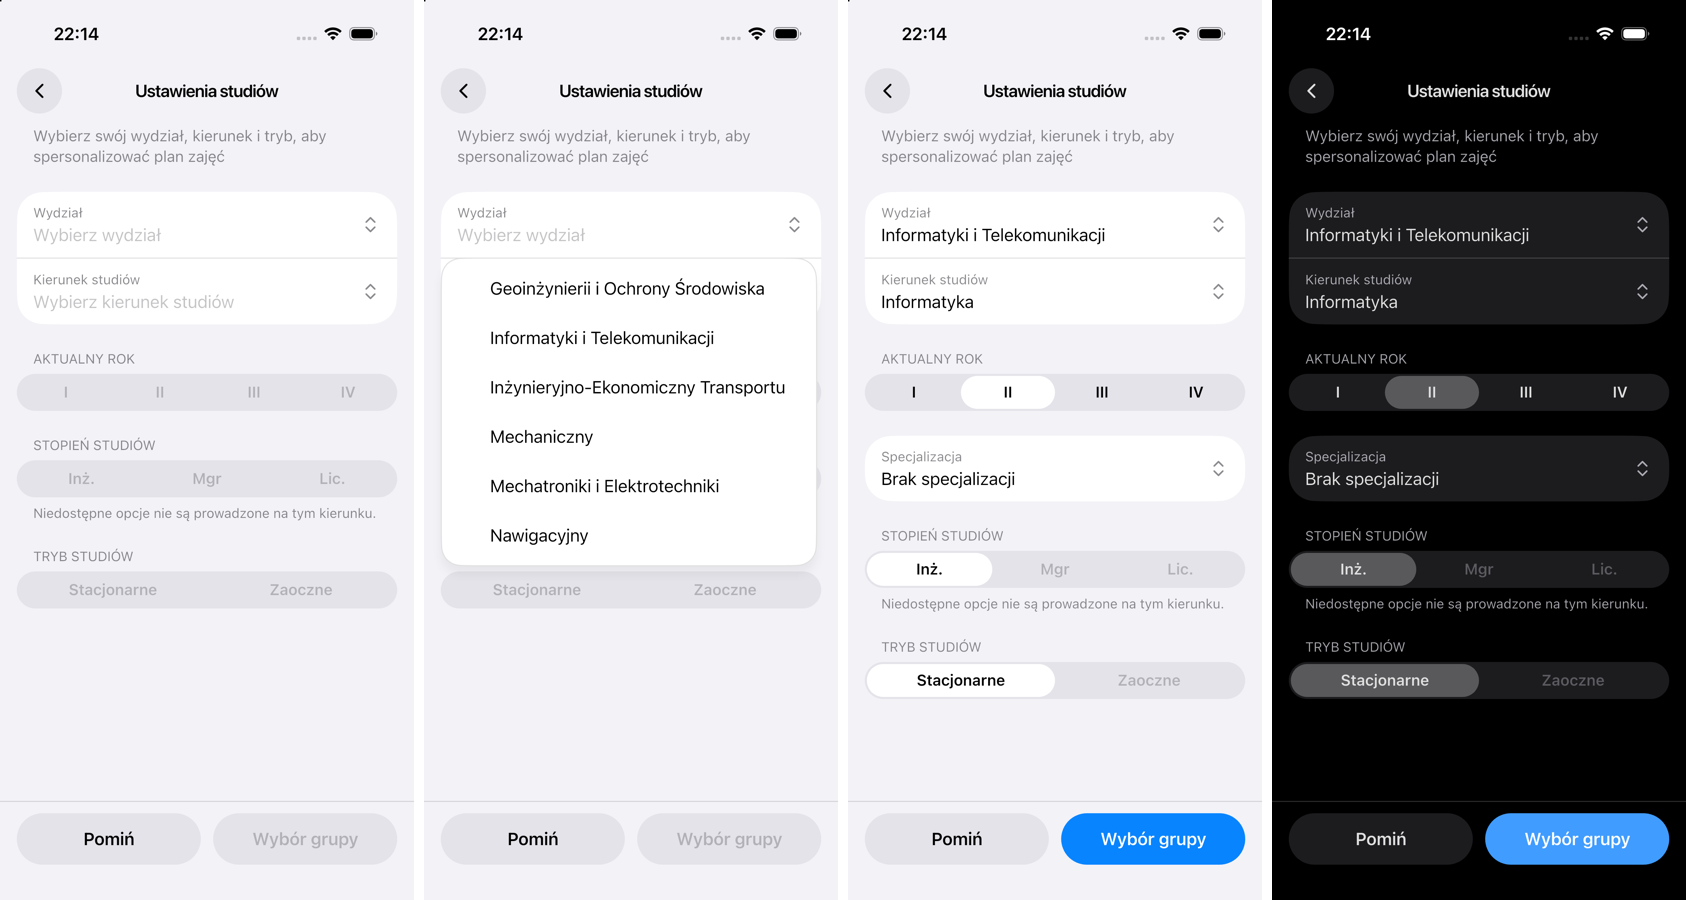
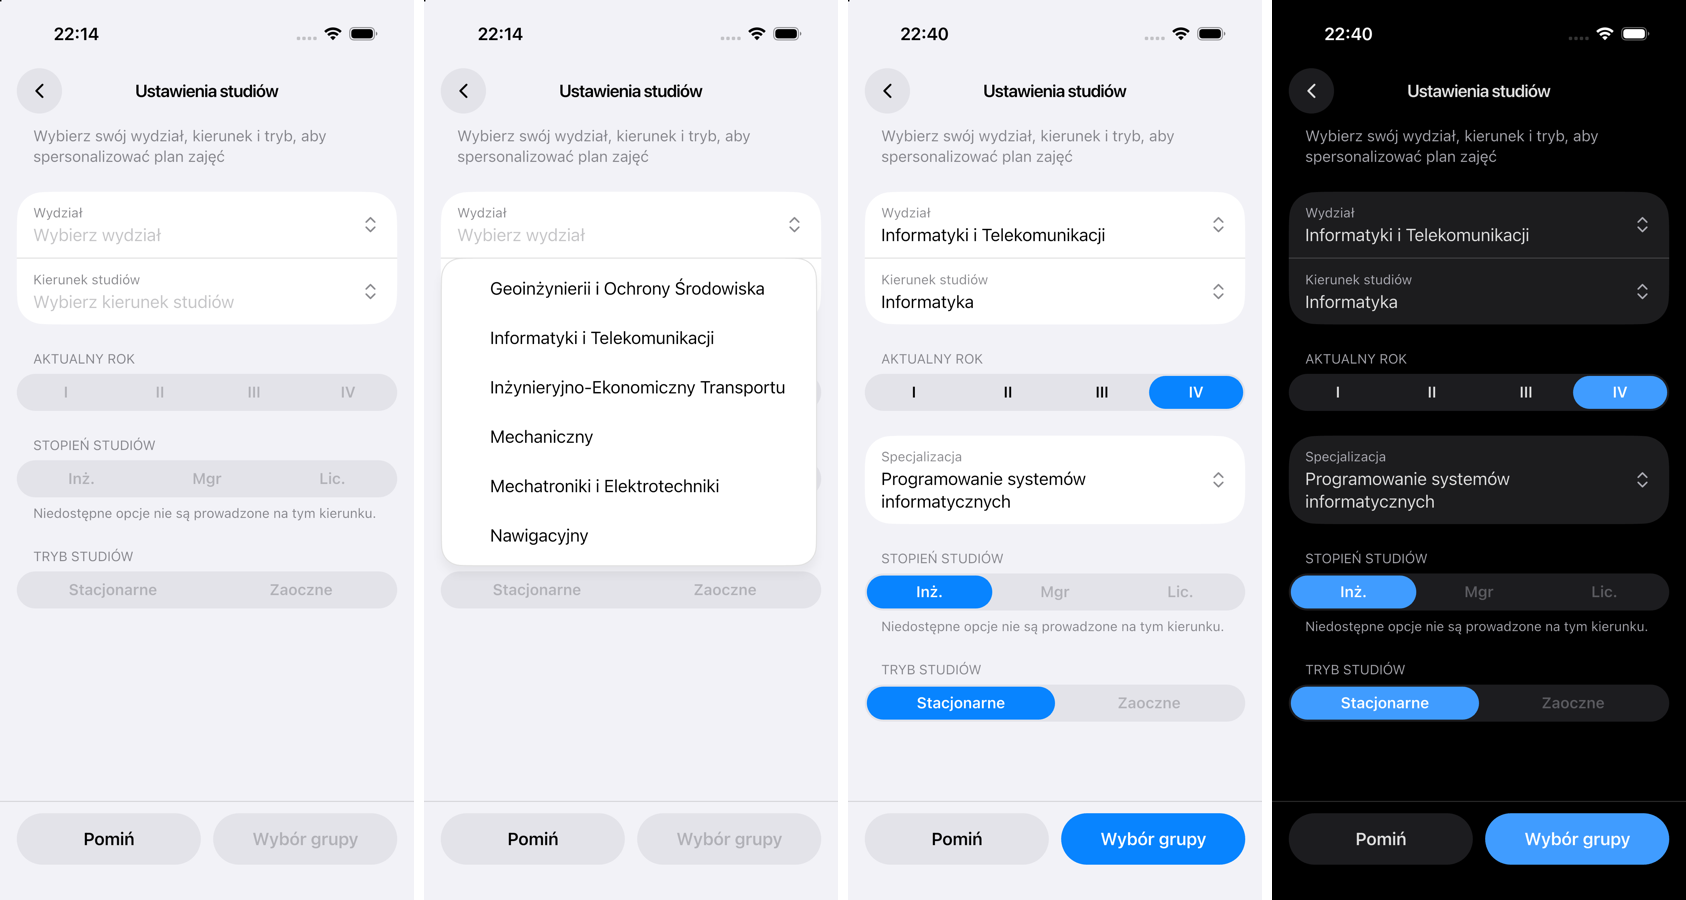
fix(ui): highlight the selected segment in the accent colour
The design draws the selected segment white, which next to the rest of
the controls did not read as a choice. Fill it with the accent colour
and white text, like a regular button, in every segmented control. The
now unused segmentedSelected colour is removed.

diff --git a/frontend/lib/global/widgets/app_segmented_control.dart b/frontend/lib/global/widgets/app_segmented_control.dart
@@ -1,5 +1,7 @@
 // Przełącznik 2–4 opcji w pigułce (rok, stopień, tryb studiów, rola).
-// Zaznaczenie przesuwa się animowanie; opcje z [disabled] są wyszarzone,
+// Zaznaczenie przesuwa się animowanie i ma kolor akcentu z białym tekstem —
+// świadome odstępstwo od białego segmentu z makiety, żeby wybór wyglądał jak
+// zwykły przycisk (decyzja właściciela). Opcje z [disabled] są wyszarzone,
 // ale widoczne — tak jak w ProgramAvailability niedostępne lata/stopnie.
 import 'package:flutter/material.dart';
 import 'package:flutter/services.dart';
@@ -60,7 +62,7 @@ class AppSegmentedControl<T> extends StatelessWidget {
                     width: segmentWidth,
                     child: DecoratedBox(
                       decoration: ShapeDecoration(
-                        color: AppColor.segmentedSelected,
+                        color: AppColor.primary,
                         shape: const StadiumBorder(),
                       ),
                     ),
@@ -101,7 +103,11 @@ class AppSegmentedControl<T> extends StatelessWidget {
             maxLines: 1,
             overflow: TextOverflow.ellipsis,
             style: AppTextStyle.subheadlineEmphasized.copyWith(
-              color: isDisabled ? AppColor.labelTertiary : AppColor.onSurface,
+              color: isSelected
+                  ? Colors.white
+                  : isDisabled
+                  ? AppColor.labelTertiary
+                  : AppColor.onSurface,
             ),
           ),
         ),

diff --git a/frontend/lib/global/theme/colors.dart b/frontend/lib/global/theme/colors.dart
@@ -197,11 +197,6 @@ class AppColor {
       ? const Color(0xFFFFFFFF)
       : const Color(0xFF1C1C1E);
 
-  /// Zaznaczony segment w [AppSegmentedControl].
-  static Color get segmentedSelected => _brightness == Brightness.light
-      ? const Color(0xFFFFFFFF)
-      : const Color(0x45FFFFFF);
-
   /// Przyciemnienie strony pod okienkiem dialogowym i menu bocznym.
   static Color get overlay => _brightness == Brightness.light
       ? const Color(0x33000000)
